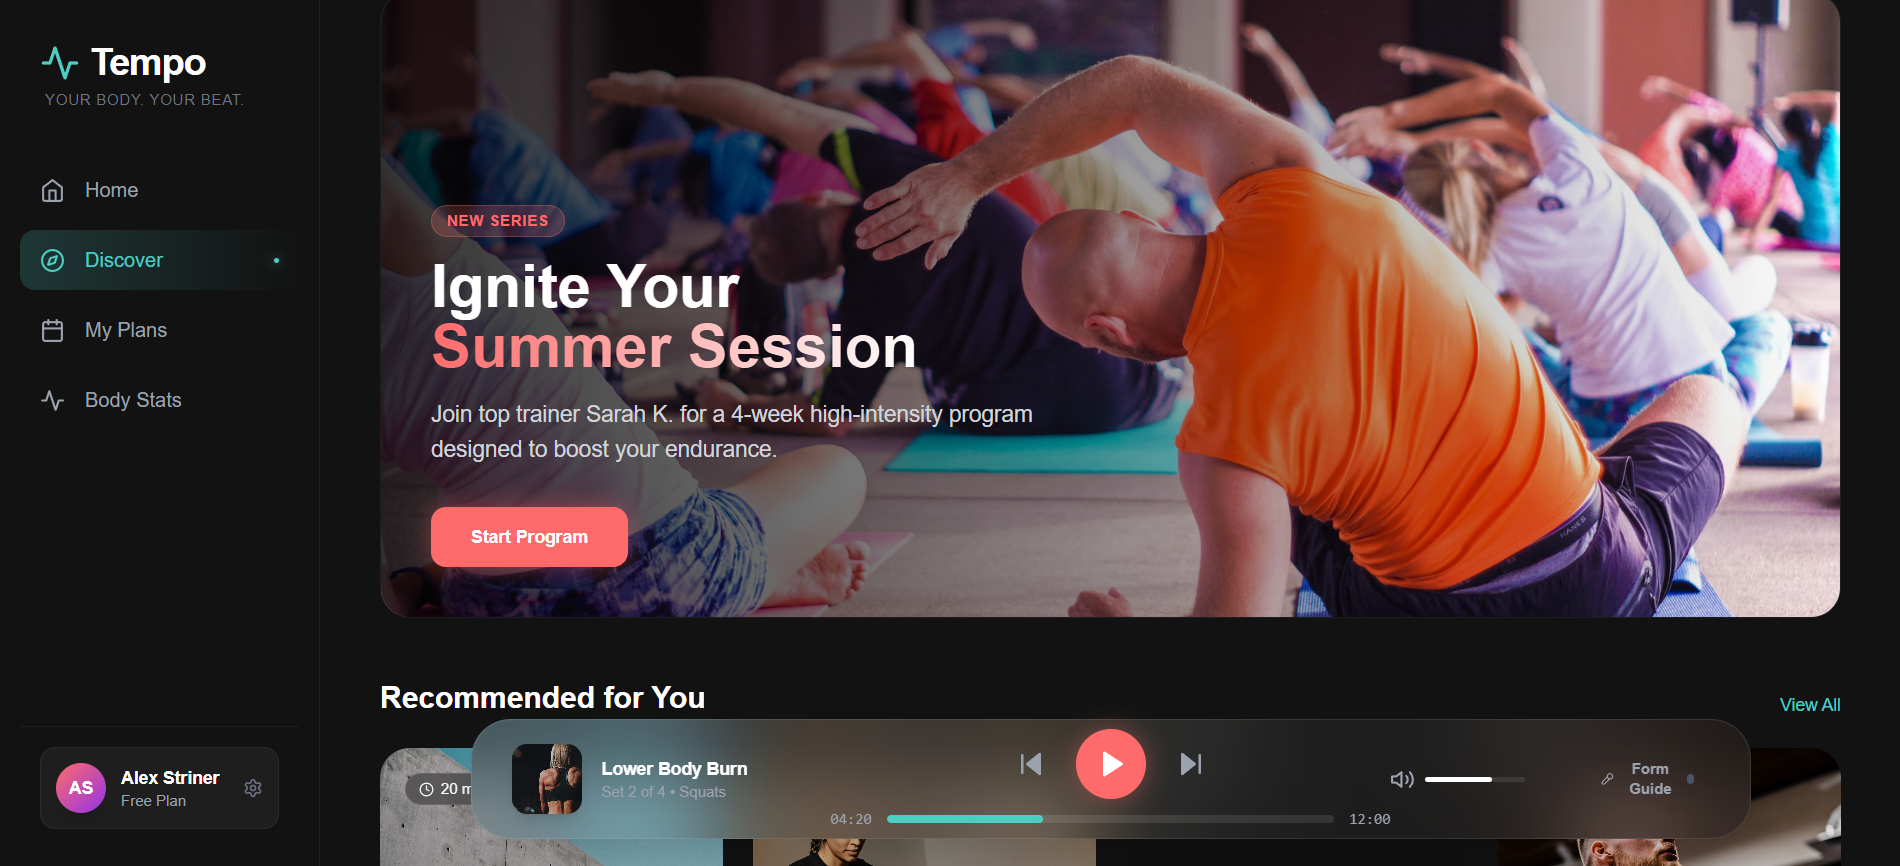
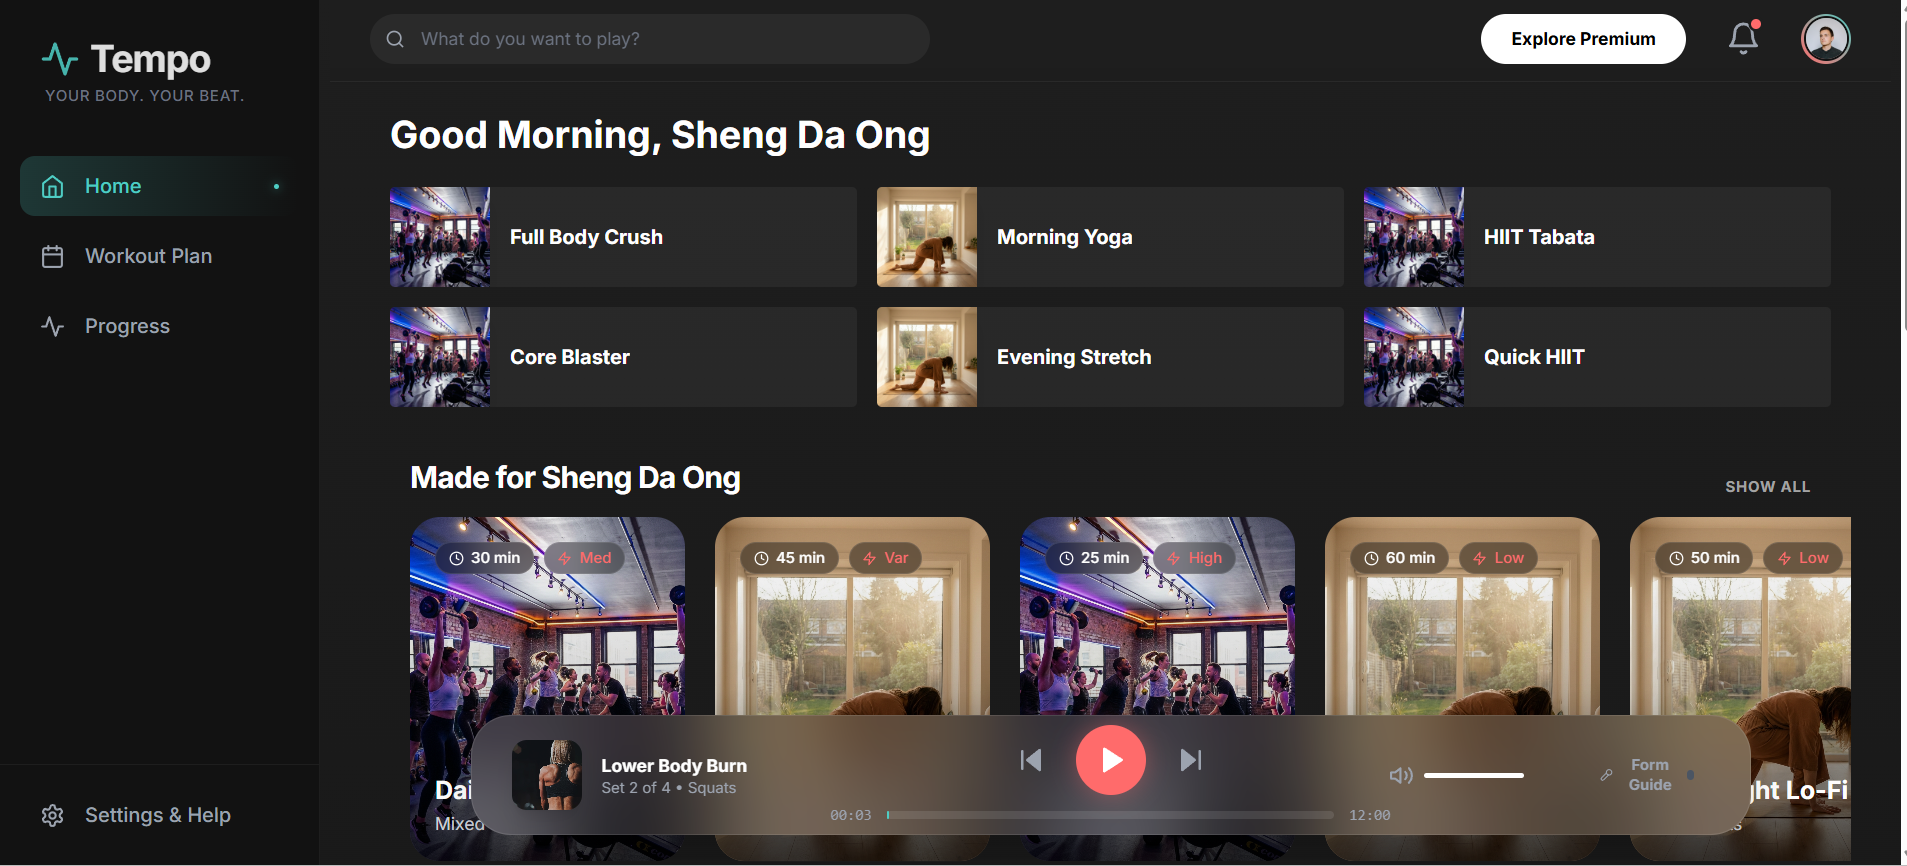
modified side bar

diff --git a/src/components/Sidebar.jsx b/src/components/Sidebar.jsx
@@ -3,21 +3,23 @@ import { Home, Compass, Calendar, Activity, User, Settings } from 'lucide-react'
 
 const Sidebar = () => {
     const menuItems = [
-        { icon: Home, label: 'Home', active: false },
-        { icon: Compass, label: 'Discover', active: true },
-        { icon: Calendar, label: 'My Plans', active: false },
-        { icon: Activity, label: 'Body Stats', active: false },
+        { icon: Home, label: 'Home', active: true },
+        { icon: Calendar, label: 'Workout Plan', active: false },
+        { icon: Activity, label: 'Progress', active: false },
     ];
 
     return (
         <aside className="w-64 h-screen fixed left-0 top-0 bg-[#121212] border-r border-white/5 flex flex-col z-40">
             {/* Branding */}
+            {/* Branding */}
             <div className="p-8 pb-4">
-                <div className="flex items-center gap-2 mb-1">
-                    <Activity className="w-8 h-8 text-electric-teal" />
-                    <h1 className="text-3xl font-bold tracking-tight text-white">Tempo</h1>
-                </div>
-                <p className="text-xs text-gray-500 font-medium tracking-wider uppercase ml-1">Your Body. Your Beat.</p>
+                <a href="/" className="block group">
+                    <div className="flex items-center gap-2 mb-1 group-hover:opacity-80 transition-opacity">
+                        <Activity className="w-8 h-8 text-electric-teal" />
+                        <h1 className="text-3xl font-bold tracking-tight text-white">Tempo</h1>
+                    </div>
+                    <p className="text-xs text-gray-500 font-medium tracking-wider uppercase ml-1">Your Body. Your Beat.</p>
+                </a>
             </div>
 
             {/* Navigation */}
@@ -26,8 +28,8 @@ const Sidebar = () => {
                     <button
                         key={item.label}
                         className={`w-full flex items-center gap-4 px-4 py-3 rounded-xl transition-all duration-300 group ${item.active
-                                ? 'bg-gradient-to-r from-electric-teal/20 to-transparent text-electric-teal'
-                                : 'text-gray-400 hover:bg-white/5 hover:text-white'
+                            ? 'bg-gradient-to-r from-electric-teal/20 to-transparent text-electric-teal'
+                            : 'text-gray-400 hover:bg-white/5 hover:text-white'
                             }`}
                     >
                         <item.icon className={`w-5 h-5 ${item.active ? 'text-electric-teal' : 'text-gray-400 group-hover:text-white'}`} />
@@ -39,18 +41,12 @@ const Sidebar = () => {
                 ))}
             </nav>
 
-            {/* User Profile */}
-            <div className="p-4 border-t border-white/5 m-4">
-                <div className="flex items-center gap-3 p-3 rounded-xl bg-white/5 hover:bg-white/10 transition-colors cursor-pointer border border-white/5">
-                    <div className="w-10 h-10 rounded-full bg-gradient-to-br from-neon-coral to-purple-600 flex items-center justify-center text-white font-bold text-sm shadow-lg">
-                        AS
-                    </div>
-                    <div className="flex-1 min-w-0">
-                        <h4 className="text-sm font-semibold text-white truncate">Alex Striner</h4>
-                        <p className="text-xs text-gray-400 truncate">Free Plan</p>
-                    </div>
-                    <Settings className="w-4 h-4 text-gray-500 hover:text-white transition-colors" />
-                </div>
+            {/* General Settings */}
+            <div className="p-4 border-t border-white/5">
+                <button className="w-full flex items-center gap-4 px-4 py-3 rounded-xl transition-all duration-300 text-gray-400 hover:bg-white/5 hover:text-white group">
+                    <Settings className="w-5 h-5 group-hover:text-white transition-colors" />
+                    <span className="font-medium">Settings & Help</span>
+                </button>
             </div>
         </aside>
     );
